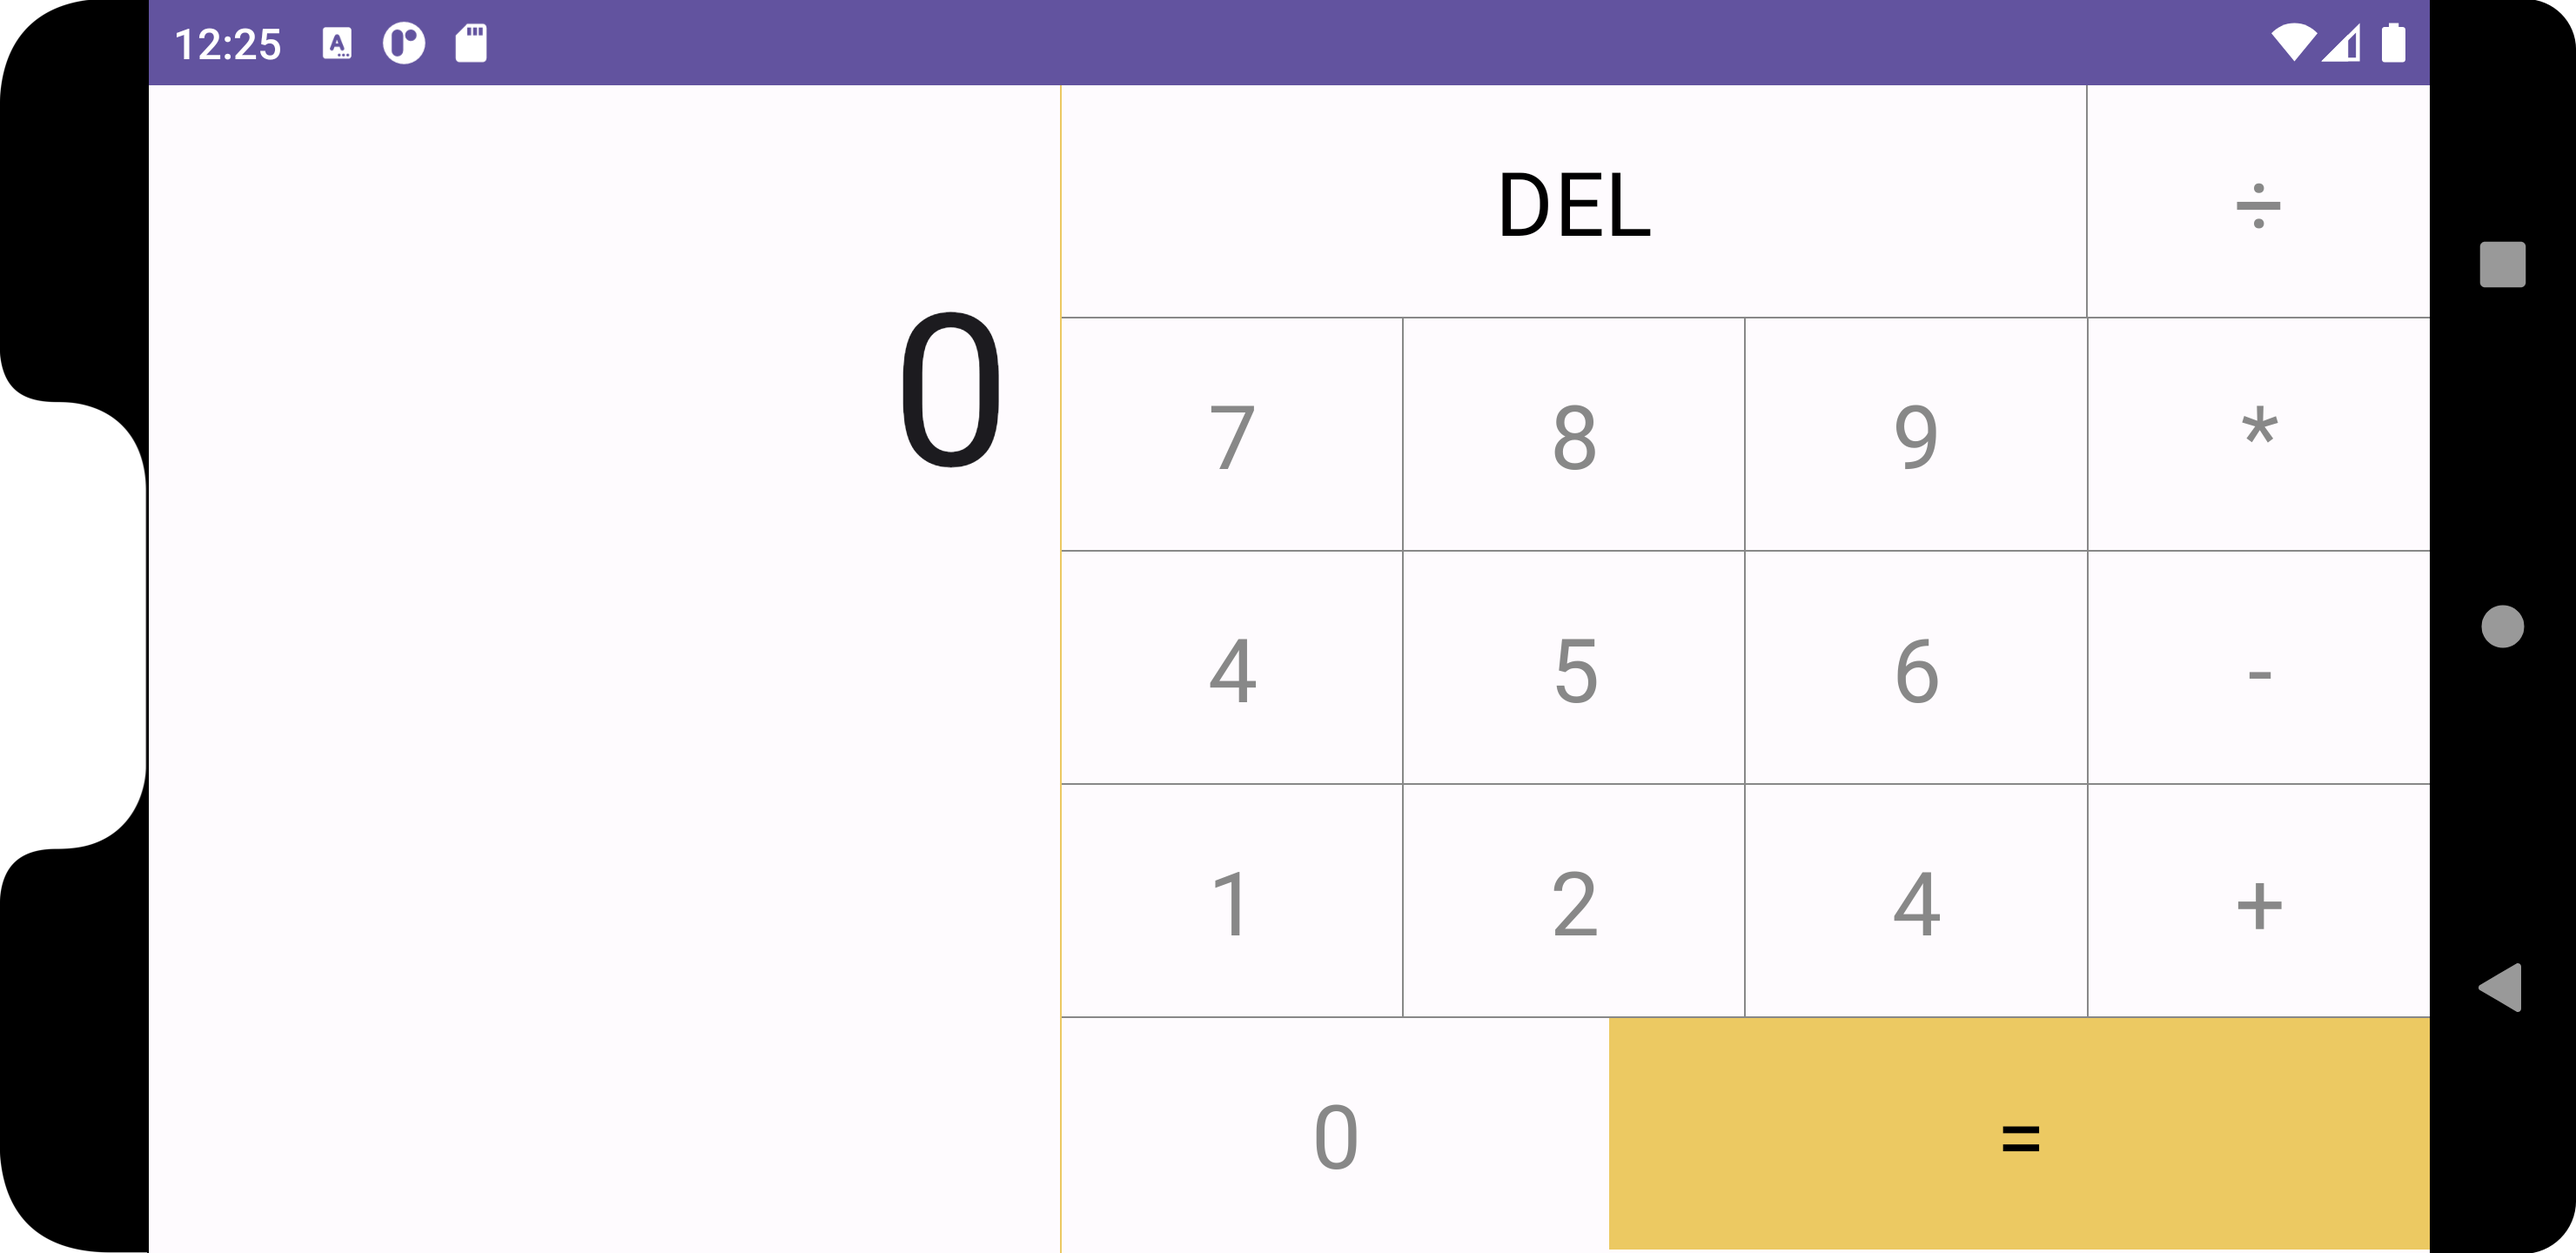
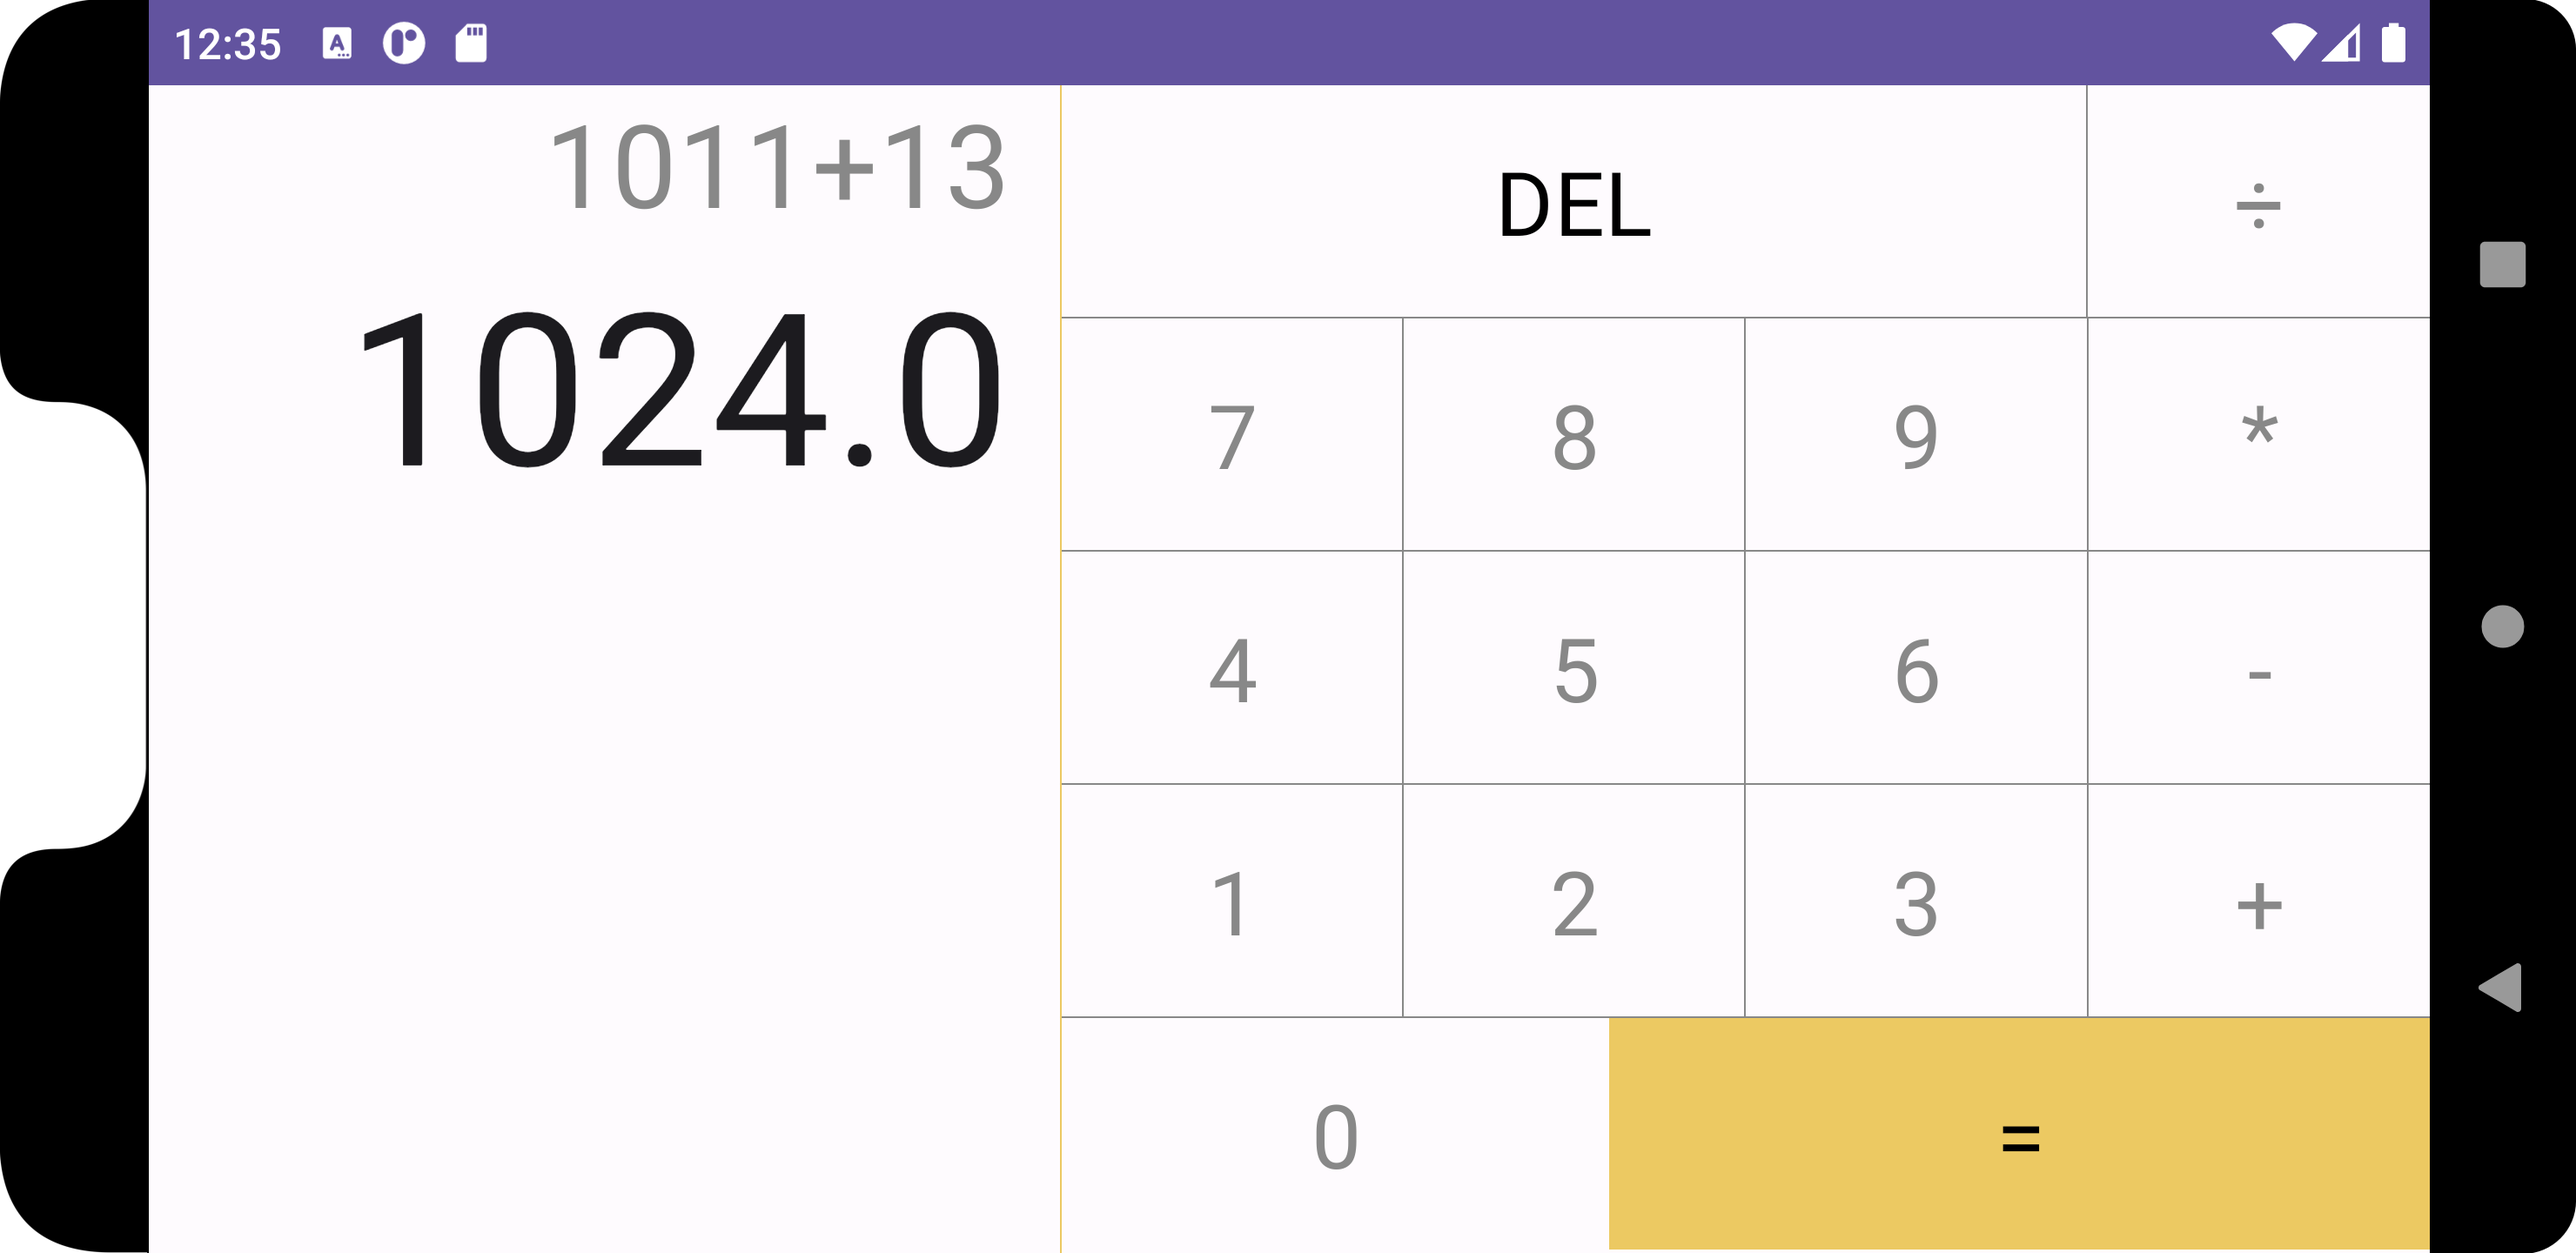
更新截图

Changed region(s): [[0.1243, 0.25, 0.3419, 0.375], [0.2176, 0.0938, 0.4041, 0.1875], [0.7149, 0.6875, 0.7459, 0.75]]

diff --git a/app/src/main/java/com/example/composecalculator/HorizentalScreen.kt b/app/src/main/java/com/example/composecalculator/HorizentalScreen.kt
@@ -184,7 +184,7 @@ fun HorizontalScreen(viewModel: CalculatorViewModel = viewModel()) {
                         .fillMaxHeight()
                         .background(Color.Gray)
                 )
-                BoxText(modifier = Modifier.weight(1f), "4")
+                BoxText(modifier = Modifier.weight(1f), "3")
                 Spacer(
                     modifier = Modifier
                         .width(0.5.dp)

diff --git a/app/src/main/java/com/example/composecalculator/VerticalScreen.kt b/app/src/main/java/com/example/composecalculator/VerticalScreen.kt
@@ -158,7 +158,7 @@ fun VerticalScreen(viewModel: CalculatorViewModel = viewModel()) {
                     .fillMaxHeight()
                     .background(Color.Gray)
             )
-            BoxText(modifier = Modifier.weight(1f), "4")
+            BoxText(modifier = Modifier.weight(1f), "3")
             Spacer(
                 modifier = Modifier
                     .width(0.5.dp)
